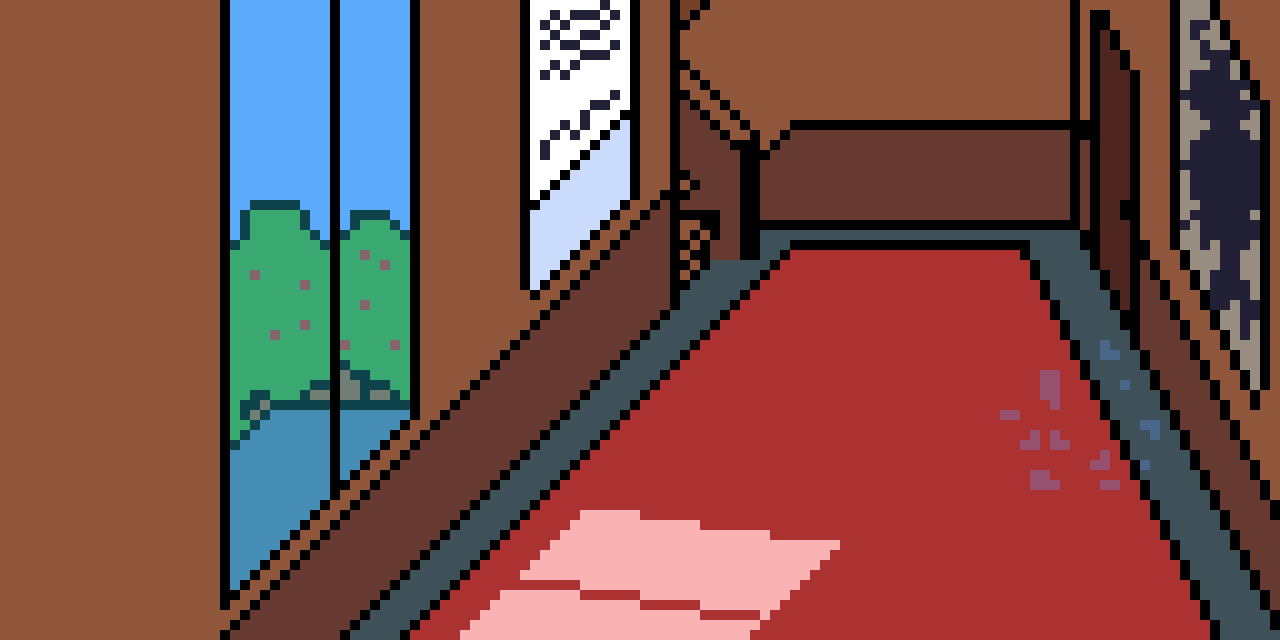
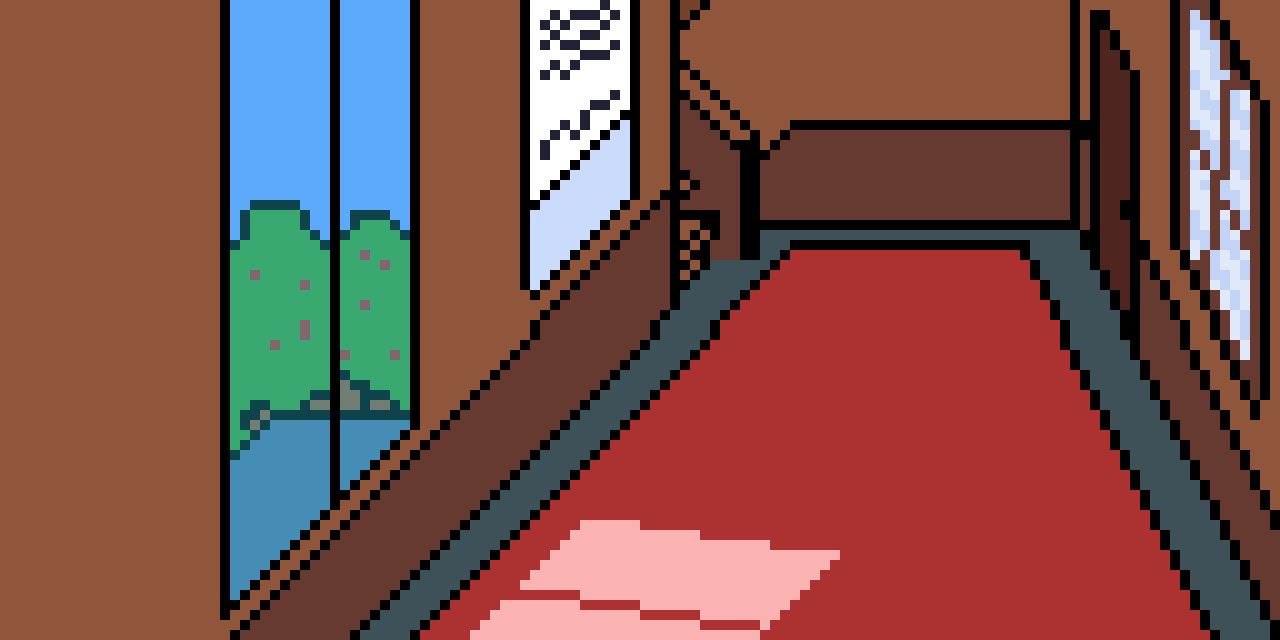
Fix: navigation problems fixed, Feat: new ventroom + visuals added

diff --git a/src/api/src/game-implementation/rooms/HallwayRoom.ts b/src/api/src/game-implementation/rooms/HallwayRoom.ts
@@ -5,6 +5,8 @@ import { Action } from "../../game-base/actions/Action";
 import { ExamineAction } from "../../game-base/actions/ExamineAction";
 import { GameObjectType } from "../../game-base/gameObjects/GameObject";
 import { Room } from "../../game-base/gameObjects/Room";
+import { PlayerSession } from "../types";
+import { gameService } from "../../global";
 
 export class HallwayRoom extends Room {
     public static readonly Alias: string = "hallway";
@@ -26,18 +28,39 @@ export class HallwayRoom extends Room {
         return ["room"];
     }
 
+    /**
+     * Haalt de beschikbare achtergrondafbeeldingen op, afhankelijk van de voortgang van de speler.
+     * @returns {string[]} Een lijst met padnamen van achtergrondafbeeldingen.
+     */
     public images(): string[] {
-        return ["hallway/HallwayBackground"];
+        const playerSession: PlayerSession = gameService.getPlayerSession();
+        const result: string[] = [];
+
+        // Kies de juiste achtergrond afhankelijk van de ontgrendelde uitgangen
+        if (playerSession.windowBroken) {
+            result.push("hallway/HallwayWindowBroken");
+        }
+        else {
+            result.push("hallway/HallwayBackground");
+        }
+
+        return result;
     }
 
     public ArrowUrl(): Arrowroom[] {
         // Initialize result as an array of Arrowroom objects
+        const playersession: PlayerSession = gameService.getPlayerSession();
         const result: Arrowroom[] = [
-            { name: "Your-room", alias: "starterroom", imageRotation: 90, imageCoords: { x: 77, y: 30 } },
             { name: "Stranger-room", alias: "strangerroom", imageRotation: -90, imageCoords: { x: 54, y: 20 } },
             { name: "Cafeteria", alias: "cafeteria", imageRotation: 180, imageCoords: { x: 60, y: 67 } },
             { name: "Toilet", alias: "toilet", imageRotation: 90, imageCoords: { x: 68, y: 20 } },
         ];
+
+        if (playersession.windowBroken) {
+            result.push(
+                { name: "Your-room", alias: "starterroom", imageRotation: 90, imageCoords: { x: 77, y: 30 } }
+            );
+        }
 
         return result;
     }

diff --git a/src/api/src/game-implementation/rooms/VentsRoom2.ts b/src/api/src/game-implementation/rooms/VentsRoom2.ts
@@ -5,14 +5,12 @@ import { ExamineAction } from "../../game-base/actions/ExamineAction";
 import { Room } from "../../game-base/gameObjects/Room";
 import { GameObjectType } from "../../game-base/gameObjects/GameObject";
 import { Arrowroom } from "@shared/types";
-import { PlayerSession } from "../types";
-import { gameService } from "../../global";
 
-export class VentsRoom extends Room {
-    public static readonly Alias: string = "Vents";
+export class VentsRoom2 extends Room {
+    public static readonly Alias: string = "Vents2";
 
     public constructor() {
-        super(VentsRoom.Alias);
+        super(VentsRoom2.Alias);
     }
 
     public name(): string {
@@ -29,28 +27,21 @@ export class VentsRoom extends Room {
     }
 
     public images(): string[] {
-        return ["vents/VentsBackground"];
+        return ["vents/Vents2Background"];
     }
 
     public ArrowUrl(): Arrowroom[] {
         // Initialize result as an array of Arrowroom objects
-        const playersession: PlayerSession = gameService.getPlayerSession();
         const result: Arrowroom[] = [
-            { name: "Vent", alias: "Vents2", imageRotation: -90, imageCoords: { x: 17, y: 60 } },
-            { name: "roof", alias: "roof", imageRotation: 90, imageCoords: { x: 77, y: 60 } },
+            { name: "Vent", alias: "Vents", imageRotation: 90, imageCoords: { x: 77, y: 60 } },
+            { name: "stranger room", alias: "strangerroom", imageRotation: 180, imageCoords: { x: 45, y: 70 } },
         ];
-
-        if (playersession.ventUnlocked) {
-            result.push(
-                { name: "Your Room", alias: "starterroom", imageRotation: 180, imageCoords: { x: 45, y: 75 } }
-            );
-        }
 
         return result;
     }
 
     public examine(): ActionResult | undefined {
-        return new TextActionResult(["You are now in the Vents, choose where you want to go..."]);
+        return new TextActionResult(["You are in the Vents... you have 2 options"]);
     }
 
     public actions(): Action[] {

diff --git a/src/api/src/game-implementation/services/GameService.ts b/src/api/src/game-implementation/services/GameService.ts
@@ -61,6 +61,7 @@ import { MetalDoorItem } from "../items/MetalDoorItem";
 import { RoofItem } from "../items/RoofItem";
 import { BombItem } from "../items/BombItem";
 import { ToiletEndRoom } from "../rooms/ToiletEndRoom";
+import { VentsRoom2 } from "../rooms/VentsRoom2";
 
 /**
  * Implementation of the game service used to operate the game engine
@@ -91,6 +92,7 @@ export class GameService extends BaseGameService<PlayerSession> {
         this.registerGameObject(RoofEndRoom);
         this.registerGameObject(LabEndRoom);
         this.registerGameObject(ToiletEndRoom);
+        this.registerGameObject(VentsRoom2);
 
         // Items
         this.registerGameObject(BakingSodaItem);

diff --git a/src/api/src/game-implementation/actions/UseAction.ts b/src/api/src/game-implementation/actions/UseAction.ts
@@ -52,7 +52,7 @@ export class UseAction extends Action {
         if (alias === UseAction.Alias) {
             const inventoryItems: GameObject[] = gameService.getGameObjectsFromInventory();
             if (inventoryItems.length === 0) {
-                return new TextActionResult(["You don't have anything to use."]);
+                return new TextActionResult(["You don't have anything to use, try looking around the room..."]);
             }
             return new ShowInventoryActionResult(inventoryItems);
         }

diff --git a/src/api/src/game-implementation/rooms/StrangerRoom.ts b/src/api/src/game-implementation/rooms/StrangerRoom.ts
@@ -52,7 +52,7 @@ export class StrangerRoom extends Room {
         // Initialize result as an array of Arrowroom objects
         const result: Arrowroom[] = [
             { name: "Hallway", alias: "hallway", imageRotation: 180, imageCoords: { x: 25, y: 25 } },
-            { name: "vent", alias: "Vents", imageRotation: 0, imageCoords: { x: 65, y: 25 } }, /// Recht omhoog
+            { name: "vent", alias: "Vents2", imageRotation: 0, imageCoords: { x: 65, y: 25 } }, /// Recht omhoog
 
         ];
 

diff --git a/src/api/src/game-implementation/rooms/StarterRoom.ts b/src/api/src/game-implementation/rooms/StarterRoom.ts
@@ -39,7 +39,7 @@ export class StarterRoom extends Room {
      * @returns {string} De naam van de startkamer.
      */
     public name(): string {
-        return "Starterroom";
+        return "Your Room";
     }
 
     /**
